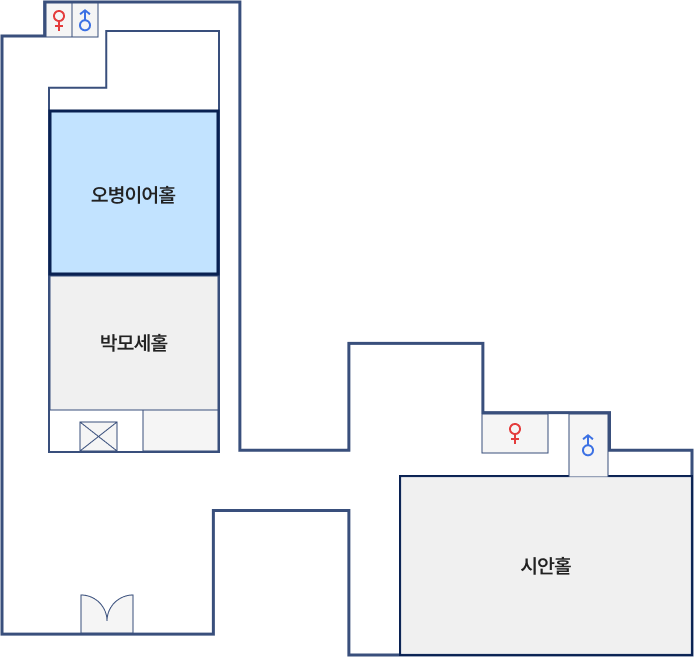
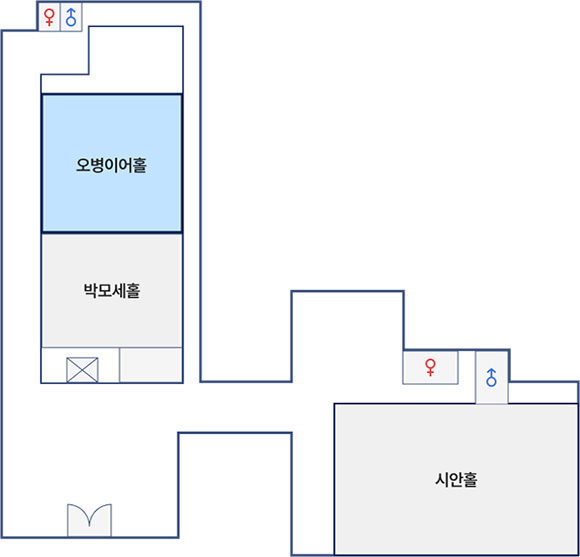
edit

diff --git a/index.html b/index.html
@@ -12,8 +12,7 @@
     <script src="https://code.jquery.com/jquery-latest.min.js"></script>
 
     <!-- rwdImageMaps CDN -->
-    <script src="https://ajax.googleapis.com/ajax/libs/jquery/2.1.4/jquery.min.js"></script>
-    <script src="https://cdnjs.cloudflare.com/ajax/libs/jQuery-rwdImageMaps/1.6/jquery.rwdImageMaps.min.js"></script> 
+    <script src="http://mattstow.com/experiment/responsive-image-maps/jquery.rwdImageMaps.min.js"></script>
 
     <!-- swiper -->
     <link rel="stylesheet" href="https://cdn.jsdelivr.net/npm/swiper@11/swiper-bundle.min.css"/>
@@ -313,9 +312,9 @@
                                     <div class="map-imges">
                                         <img id="mainImage" src="img/home/1nd-map03.png" usemap="#main_map" alt="1층 맵 이미지">
                                         <map name="main_map">
-                                            <area class="map01-list1" shape="rect" coords="49,113,219,277" alt="" data-img="img/home/1nd-map01.png"/>
-                                            <area class="map01-list2" shape="rect" coords="48,277,219,409" alt="" data-img="img/home/1nd-map02.png"/>
-                                            <area class="map01-list3" shape="rect" coords="399,476,692,656" alt="" data-img="img/home/1nd-map03.png"/>
+                                            <area class="map01-list1" shape="rect" coords="42,96,183,233" alt="" data-img="img/home/1nd-map01.png"/>
+                                            <area class="map01-list2" shape="rect" coords="41,234,183,347" alt="" data-img="img/home/1nd-map02.png"/>
+                                            <area class="map01-list3" shape="rect" coords="335,402,578,555" alt="" data-img="img/home/1nd-map03.png"/>
                                         </map> 
                                     </div>
                                     <!-- 맵 컨텐츠 // 오른쪽-->
@@ -589,9 +588,9 @@
                                     <div class="map-imges">
                                         <img id="mainImage2" src="img/home/1nd-map03.png" usemap="#main_2nd" alt="2층 맵 이미지">
                                         <map name="main_2nd">
-                                            <area class="map02-list1" shape="rect" coords="404,423,693,658" alt="" data-img="img/home/1nd-map01.png"/>
-                                            <area class="map02-list2" shape="rect" coords="138,220,266,346" alt="" data-img="img/home/1nd-map02.png"/>
-                                            <area class="map02-list3" shape="rect" coords="139,111,267,222" alt="" data-img="img/home/1nd-map03.png"/>
+                                            <area class="map02-list1" shape="rect" coords="42,96,183,233" alt="" data-img="img/home/1nd-map01.png"/>
+                                            <area class="map02-list2" shape="rect" coords="41,234,183,347" alt="" data-img="img/home/1nd-map02.png"/>
+                                            <area class="map02-list3" shape="rect" coords="335,402,578,555" alt="" data-img="img/home/1nd-map03.png"/>
                                         </map> 
                                     </div>
                                     <!-- 맵 컨텐츠 -->
@@ -718,6 +717,7 @@
                                         </div>
                                     </div>
                                 </div>
+                                
                                 <!-- 그리드 방식 -->
                                 <div class="gird-area">
                                     <!-- 시안홀 -->
@@ -871,9 +871,9 @@
                                     <div class="map-imges">
                                         <img id="mainImage3" src="img/home/1nd-map03.png" usemap="#main_3nd" alt="1층 맵 이미지">
                                         <map name="main_3nd">
-                                            <area class="map03-list1" shape="rect" coords="49,113,219,277" alt="" data-img="img/home/3nd-map01.png"/>
-                                            <area class="map03-list2" shape="rect" coords="48,277,219,409" alt="" data-img="img/home/3nd-map02.png"/>
-                                            <area class="map03-list3" shape="rect" coords="399,476,692,656" alt="" data-img="img/home/3nd-map03.png"/>
+                                            <area class="map03-list1" shape="rect" coords="42,96,183,233" alt="" data-img="img/home/1nd-map01.png"/>
+                                            <area class="map03-list2" shape="rect" coords="41,234,183,347" alt="" data-img="img/home/1nd-map02.png"/>
+                                            <area class="map03-list3" shape="rect" coords="335,402,578,555" alt="" data-img="img/home/1nd-map03.png"/>
                                         </map> 
                                     </div>
                                     <!-- 맵 컨텐츠 -->
@@ -1144,9 +1144,9 @@
                                     <div class="map-imges">
                                         <img id="mainImageB1" src="img/home/1nd-map03.png" usemap="#main_B1nd" alt="1층 맵 이미지">
                                         <map name="main_B1nd">
-                                            <area class="mapB1-list1" shape="rect" coords="49,113,219,277" alt="" data-img="img/home/B1nd-map01.png"/>
-                                            <area class="mapB1-list2" shape="rect" coords="48,277,219,409" alt="" data-img="img/home/B1nd-map02.png"/>
-                                            <area class="mapB1-list3" shape="rect" coords="399,476,692,656" alt="" data-img="img/home/B1nd-map03.png"/>
+                                            <area class="mapB1-list1" shape="rect" coords="42,96,183,233" alt="" data-img="img/home/1nd-map01.png"/>
+                                            <area class="mapB1-list2" shape="rect" coords="41,234,183,347" alt="" data-img="img/home/1nd-map02.png"/>
+                                            <area class="mapB1-list3" shape="rect" coords="335,402,578,555" alt="" data-img="img/home/1nd-map03.png"/>
                                         </map> 
                                     </div>
                                     <!-- 맵 컨텐츠 -->
@@ -1816,64 +1816,78 @@
         document.addEventListener("DOMContentLoaded", function () {
             // -- area 클릭시 컨텐츠 변경 및 이미지 경로 변경 ?????????????
             const floorData = [
-                { prefix: "map01", imageId: "mainImage", usemap: "#main_map" }, // 1층
-                { prefix: "map02", imageId: "mainImage2", usemap: "#main_2nd" }, // 2층
-                { prefix: "map03", imageId: "mainImage3", usemap: "#main_3nd" }, // 3층
-                { prefix: "mapB1", imageId: "mainImageB1", usemap: "#main_B1nd" } // B1층
+                { prefix: "map01", imageId: "mainImage", usemap: "main_map" }, // 1층
+                { prefix: "map02", imageId: "mainImage2", usemap: "main_2nd" }, // 2층
+                { prefix: "map03", imageId: "mainImage3", usemap: "main_3nd" }, // 3층
+                { prefix: "mapB1", imageId: "mainImageB1", usemap: "main_B1nd" } // B1층
             ];
 
             function initFloorEvents() {
                 document.querySelectorAll(".tab-cont").forEach(activeTab => {
-                    // 현재 탭의 content-list 모두 숨기기
+                    // 모든 content-list 숨기고 기본적으로 content-list03 표시
                     activeTab.querySelectorAll(".content-list").forEach(el => el.style.display = "none");
-
-                    // 기본적으로 첫 번째 콘텐츠 보이도록 설정
                     const defaultContent = activeTab.querySelector(".content-list03");
                     if (defaultContent) defaultContent.style.display = "block";
 
+                    // 현재 탭에 맞는 imageId 및 usemap 찾기
                     const imageData = floorData.find(data => activeTab.querySelector(`#${data.imageId}`));
-                    if (imageData) {
-                        const imageElement = activeTab.querySelector(`#${imageData.imageId}`);
-                        imageElement.useMap = imageData.usemap;
+                    if (!imageData) return;
 
-                        activeTab.querySelectorAll(`map[name="${imageData.usemap.replace('#', '')}"] area`).forEach(area => {
-                            area.addEventListener("click", function (event) {
-                                event.preventDefault(); // 기본 동작 방지
+                    const imageElement = activeTab.querySelector(`#${imageData.imageId}`);
+                    if (imageElement) {
+                        imageElement.setAttribute("usemap", `#${imageData.usemap}`);
+                    }
 
-                                const targetClass = event.target.classList[0]; // 클릭한 area의 클래스명 가져오기
-                                let contentClass = "";
-
-                                // 클릭한 영역에 맞는 content-class 찾기
-                                if (targetClass.includes("list1")) contentClass = ".content-list01";
-                                else if (targetClass.includes("list2")) contentClass = ".content-list02";
-                                else if (targetClass.includes("list3")) contentClass = ".content-list03";
-
-                                // 이미지 경로 가져오기 (클릭된 영역의 data-img 속성 활용)
-                                const newSrc = event.target.dataset.img;
-                                showContent(activeTab, contentClass, imageData.imageId, newSrc);
-                            });
+                    // area 이벤트 리스너 초기화 (기존 이벤트 제거 후 다시 추가)
+                    const mapElement = activeTab.querySelector(`map[name="${imageData.usemap}"]`);
+                    if (mapElement) {
+                        mapElement.querySelectorAll("area").forEach(area => {
+                            area.removeEventListener("click", handleAreaClick); // 기존 이벤트 제거
+                            area.addEventListener("click", handleAreaClick);
                         });
                     }
                 });
             }
 
+            function handleAreaClick(event) {
+                event.preventDefault();
+
+                const targetClass = event.target.classList[0];
+                const match = targetClass.match(/list(\d+)/);
+                if (!match) return;
+
+                const contentClass = `.content-list0${match[1]}`;
+                const imgSrc = event.target.dataset.img;
+                
+                // 현재 활성화된 탭 찾기
+                const activeTab = event.target.closest(".tab-cont");
+                const imageId = floorData.find(data => activeTab.querySelector(`#${data.imageId}`))?.imageId;
+
+                if (imageId && imgSrc) {
+                    showContent(activeTab, contentClass, imageId, imgSrc);
+                }
+            }
+
             function showContent(activeTab, selector, imageId, imgSrc) {
                 activeTab.querySelectorAll(".content-list").forEach(el => el.style.display = "none");
+
                 const targetContent = activeTab.querySelector(selector);
                 if (targetContent) targetContent.style.display = "block";
 
                 const imageElement = activeTab.querySelector(`#${imageId}`);
-                if (imageElement) {
+                if (imageElement && imgSrc) {
                     imageElement.src = imgSrc;
                 }
             }
 
-            document.querySelectorAll(".tabs .tab").forEach((tab, index) => {
-                tab.addEventListener("click", function () {
+            // 탭 클릭 시 이벤트 초기화
+            document.querySelectorAll(".tabs .tab").forEach(tab => {
+                tab.addEventListener("click", () => {
                     setTimeout(initFloorEvents, 10);
                 });
             });
 
+            // 페이지 로드 시 초기화
             initFloorEvents();
 
             // -- 그리드, 맵 보기 아이콘 클릭
@@ -2016,11 +2030,10 @@
         });
     </script>
 
-    <script>
-        // 플러그인
+    <script> // 플러그인
         AOS.init();
 
-        $(document).ready(function() {
+        $(document).ready(function(e) {
             $('img[usemap]').rwdImageMaps();
         });
     </script>

diff --git a/css/main.css b/css/main.css
@@ -306,7 +306,7 @@
 #home .mainIndex .section01 .tab.active {
   background-size: 100% 100%;
   color: #fff;
-  background: #222;
+  background: #144974;
 }
 #home .mainIndex .section01 .tab-cont {
   display: none;
@@ -353,7 +353,7 @@
   cursor: pointer;
 }
 #home .mainIndex .section01 .tab-cont .map-imges > img {
-  width: 100%;
+  max-width: 100%;
   height: 100%;
   object-fit: contain;
 }
@@ -375,6 +375,7 @@
 #home .mainIndex .section01 .tab-cont .map-content .content-text .title .room-name {
   font-size: 20px;
   font-weight: 600;
+  color: #222;
 }
 #home .mainIndex .reservation-button {
   display: inline-flex;

diff --git a/css/swiper.css b/css/swiper.css
@@ -116,6 +116,7 @@
 }
 #home .mainIndex .section01 .foor1-swiper .swiper-slide {
     width: calc(100% / 3) !important;
+    color: #222;
 }
 #home .mainIndex .section01 .foor2-swiper .swiper-slide ,
 #home .mainIndex .section01 .foor3-swiper .swiper-slide ,
